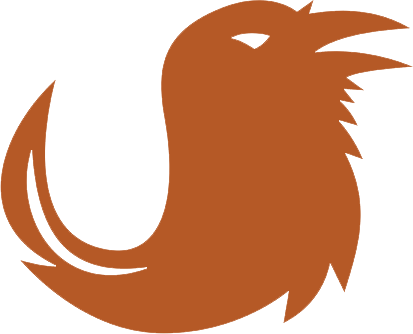
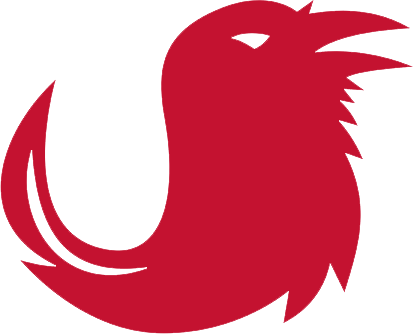
Responsividade no menu e caixa de confirmação ao remover

diff --git a/css/loja.css b/css/loja.css
@@ -4,7 +4,7 @@
 }
 
 #logo:hover span{
-    color:#d07543;
+    color:#c41230;
 }
 
 .img-box img#img-hover {
@@ -17,4 +17,8 @@
  
  #logo:hover img#img-hover {
     display: inherit;
+ }
+
+ .bg-dark{
+     background-color: #000 !important;
  }

diff --git a/mostra-produtos.php b/mostra-produtos.php
@@ -6,42 +6,70 @@
     
     <h1> Lista de Produtos </h1>    
     <p class="alert-success" <?=$removido?> >Produto removido com sucesso</p>
-    <table class="table table-bordered table-striped">
-        <thead class="thead-dark">
-            <tr>
-                <th scope="col">Nome</th>
-                <th scope="col">Preço</th>
-                <th scope="col">Descrição</th>
-                <th colspan="2"></th>
-            </tr>
-        </thead>
-        <tbody>
-            <?php 
+    <div class="table-responsive">
+        <table class="table table-bordered table-striped">
+            <thead class="thead-dark">
+                <tr>
+                    <th scope="col">Nome</th>
+                    <th scope="col">Preço</th>
+                    <th scope="col">Descrição</th>
+                    <th colspan="2"></th>
+                </tr>
+            </thead>
+            <tbody>
+                <?php 
 
-                $produtos = isset($_GET['busca'])?buscarProduto(conectarBanco(), $_GET['busca']):listarProduto(conectarBanco());    
-                foreach($produtos as $produto) :?>
-                    <tr>
-                        <td><?=$produto["nome"]?></td>
-                        <td><?=$produto["preco"]?></td>
-                        <td><?=substr(utf8_encode($produto["descricao"]),0,35)?><?=strlen($produto["descricao"])>=35?"...":''?>
-                        </td>
-                        <td align="center">
-                            <form action="produto-formulario.php" method="post">
-                                <input type="hidden" name="id" value="<?=$produto["id"]?>">
-                                <input type="hidden" name="nome" value="<?=$produto["nome"]?>">
-                                <input type="hidden" name="preco" value="<?=$produto["preco"]?>">
-                                <input type="hidden" name="descricao" value="<?=utf8_encode($produto["descricao"])?>">
-                                <button class="btn btn-warning">Alterar</button>
-                            </form>
-                        </td>
-                        <td align="center">
-                            <form action="removeProduto.php" method="post">
-                                <input type="hidden" name="id" value="<?=$produto["id"]?>">
-                                <button class="btn btn-danger">Remover</button>
-                            </form>
-                        </td>
-                    </tr>
-            <?php endforeach ?>
-        </tbody>
-    </table>
+                    $produtos = isset($_GET['busca'])?buscarProduto(conectarBanco(), $_GET['busca']):listarProduto(conectarBanco());    
+                    foreach($produtos as $produto) :?>
+                        <tr>
+                            <td><?=$produto["nome"]?></td>
+                            <td><?=$produto["preco"]?></td>
+                            <td><?=substr(utf8_encode($produto["descricao"]),0,35)?><?=strlen($produto["descricao"])>=35?"...":''?>
+                            </td>
+                            <td align="center">
+                                <form action="produto-formulario.php" method="post">
+                                    <input type="hidden" name="id" value="<?=$produto["id"]?>">
+                                    <input type="hidden" name="nome" value="<?=$produto["nome"]?>">
+                                    <input type="hidden" name="preco" value="<?=$produto["preco"]?>">
+                                    <input type="hidden" name="descricao" value="<?=utf8_encode($produto["descricao"])?>">
+                                    <button class="btn btn-warning">Alterar</button>
+                                </form>
+                            </td>
+                            <td align="center">
+
+                                <form action="removeProduto.php" method="post">
+                                    <input type="hidden" name="id" value="<?=$produto["id"]?>">
+
+                                    <button type="button" class="btn btn-danger" data-toggle="modal" data-target="#exampleModalCenter<?=$produto["id"]?>">
+                                     Remover
+                                    </button>
+
+                                    <!-- Modal -->
+                                    <div class="modal fade" id="exampleModalCenter<?=$produto["id"]?>" tabindex="-1" role="dialog" aria-labelledby="exampleModalCenterTitle" aria-hidden="true">
+                                      <div class="modal-dialog modal-dialog-centered" role="document">
+                                        <div class="modal-content">
+                                          <div class="modal-header">
+                                            <h5 class="modal-title" id="exampleModalCenterTitle">Remover Produto</h5>
+                                            <button type="button" class="close" data-dismiss="modal" aria-label="Close">
+                                              <span aria-hidden="true">&times;</span>
+                                            </button>
+                                          </div>
+                                          <div class="modal-body">
+                                            Deseja realmente remover <?=strtolower($produto["nome"])?>?
+                                          </div>
+                                          <div class="modal-footer">
+                                            <button type="submit" class="btn btn-danger">Confirmar</button>
+                                            <button type="button" class="btn btn-secondary" data-dismiss="modal">Close</button>
+                                          </div>
+                                        </div>
+                                      </div>
+                                    </div>
+                                </form>
+
+                            </td>
+                        </tr>
+                <?php endforeach ?>
+            </tbody>
+        </table>
+    </div>
  <?php include("rodape.php") ?>

diff --git a/cabecalho.php b/cabecalho.php
@@ -1,13 +1,15 @@
 <html>
     <head>
         <meta charset="UTF-8">
+        <meta name="viewport" content="width=device-width, initial-scale=1, shrink-to-fit=no">
         <title>Hawks Shop</title>
         <link rel="icon" href="img/icon.png" type="image/png" sizes="64x52">
         <link href="css/bootstrap.css" rel="stylesheet">
-        <link href="css/loja.css" rel="stylesheet">
         <script src="https://ajax.googleapis.com/ajax/libs/jquery/3.3.1/jquery.min.js"></script>
         <script src="https://cdnjs.cloudflare.com/ajax/libs/popper.js/1.14.3/umd/popper.min.js"></script>
         <script src="https://maxcdn.bootstrapcdn.com/bootstrap/4.1.3/js/bootstrap.min.js"></script>
+        <link href="css/loja.css" rel="stylesheet">
+
     </head>
     <body>
     

diff --git a/bancoUtil.php b/bancoUtil.php
@@ -27,7 +27,7 @@
     }
 
     function buscarProduto($conexao, $busca){
-        $query = "select * from produtos where nome like '{$busca}%'";
+        $query = "select * from produtos where nome like \'{$busca}%\'";
         $resultado = mysqli_query($conexao, $query);
         $arrayProdutos = array();        
         while($produto = mysqli_fetch_assoc($resultado)){
